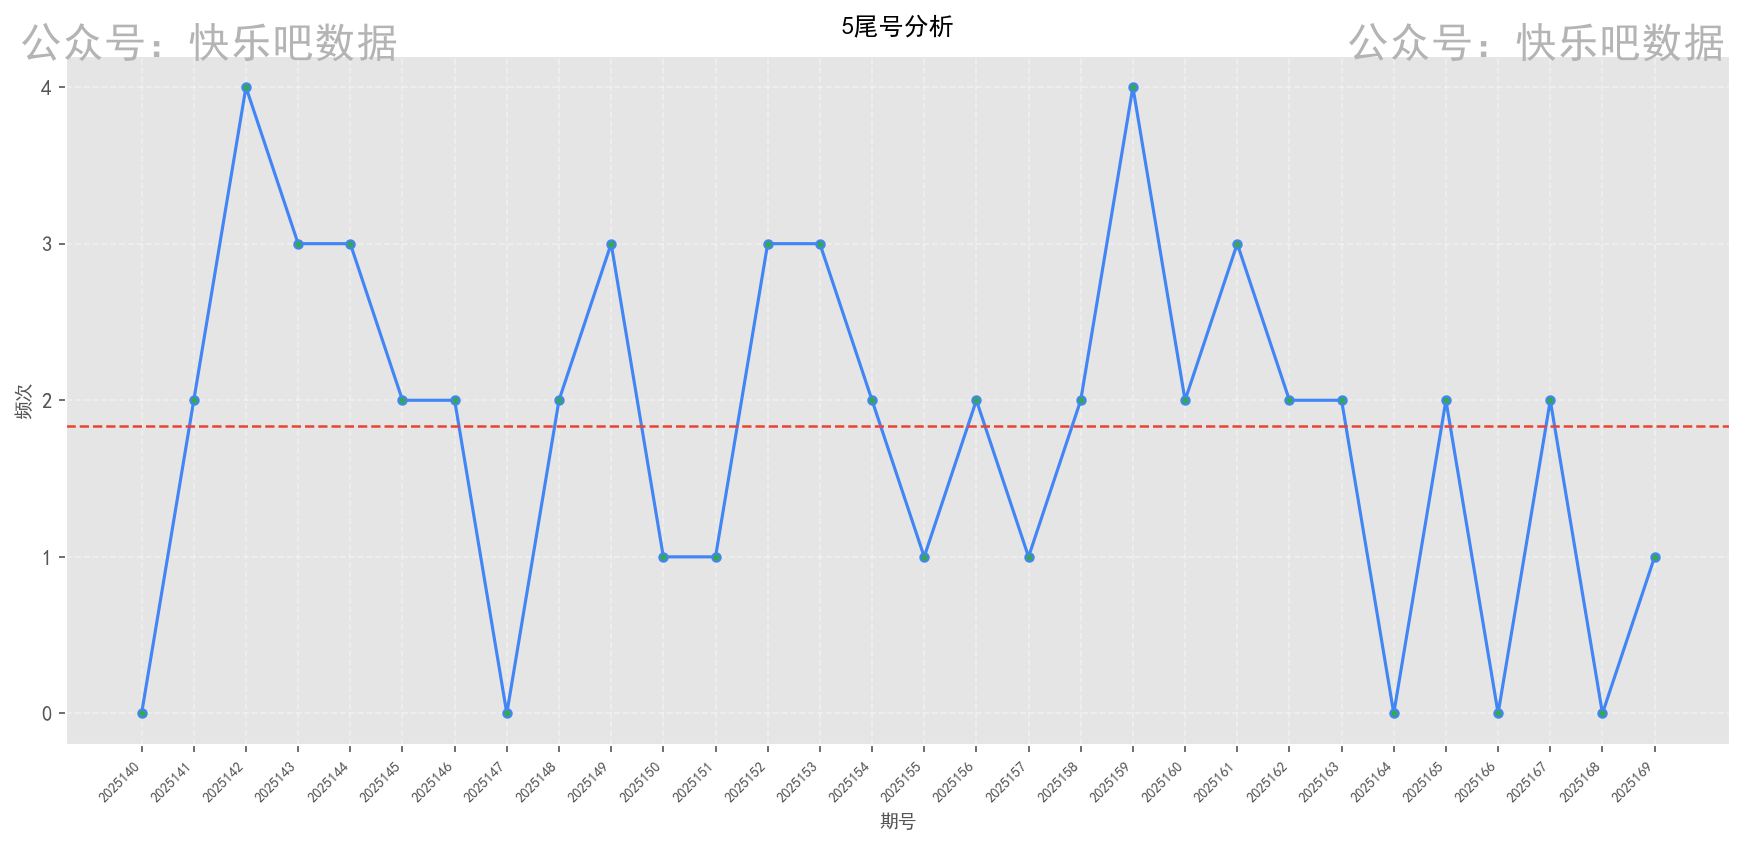
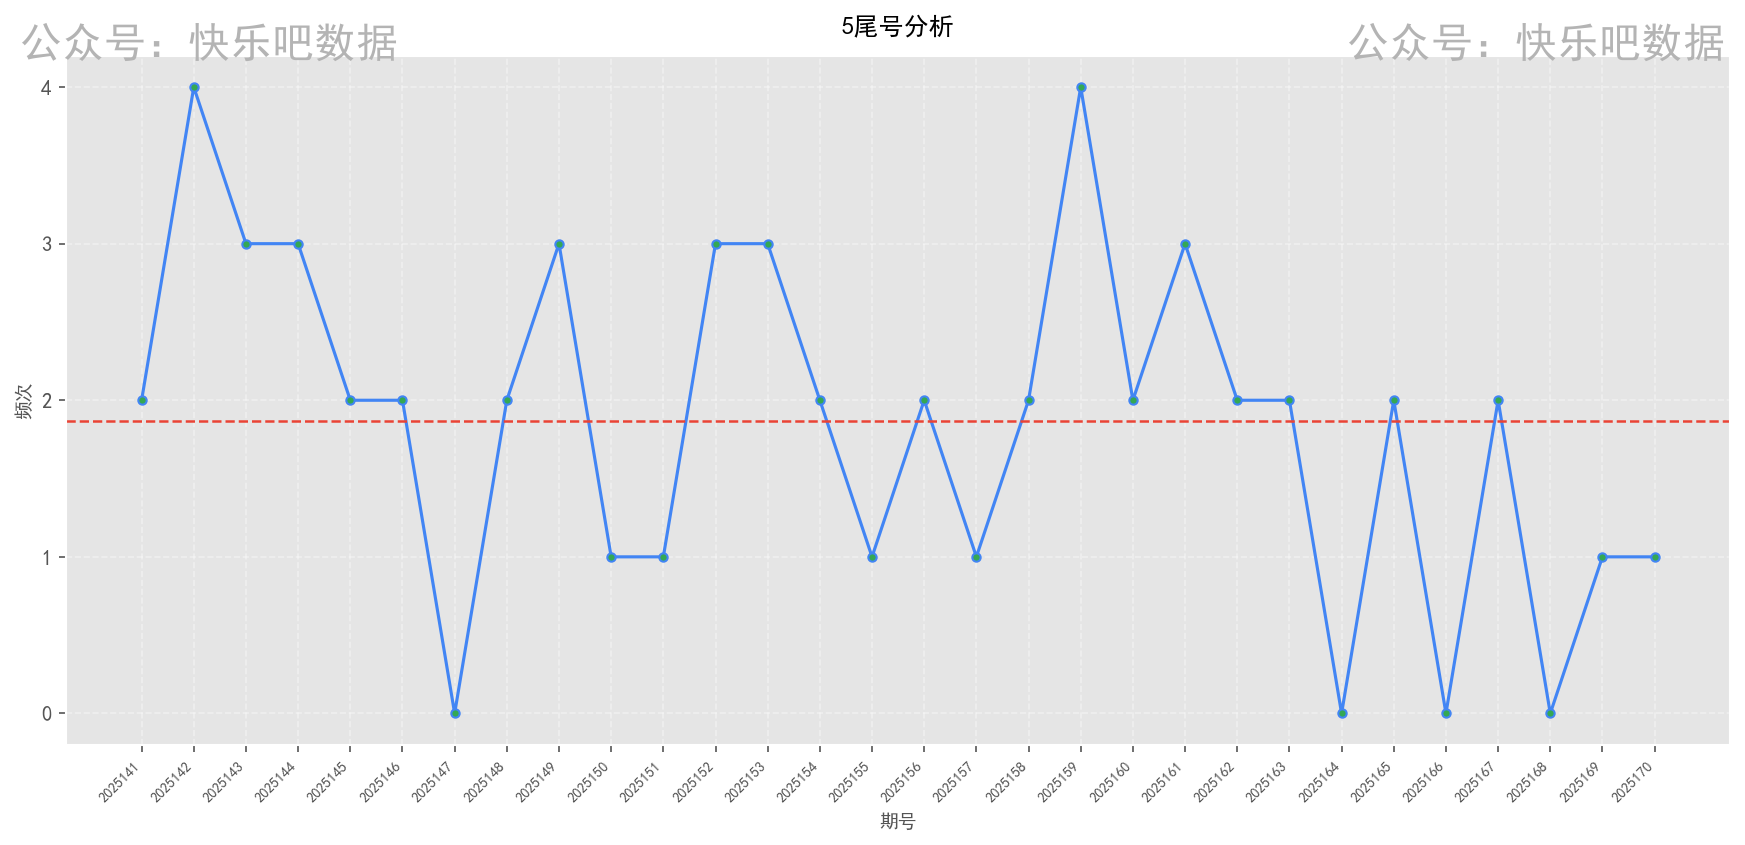
自动提交报告 20250629_2327

diff --git a/快乐8尾号分析项目/数据报告/20250629/report.html b/快乐8尾号分析项目/数据报告/20250629/report.html
@@ -440,7 +440,7 @@
                     <div class="label">尾号区间</div>
                 </div>
                 <div class="overview-card">
-                    <div class="value">2025169</div>
+                    <div class="value">2025170</div>
                     <div class="label">最新期号</div>
                 </div>
                 <div class="overview-card">
@@ -464,11 +464,11 @@
             <div class="stats-summary">
                 <div class="stat-item">
                     <span class="stat-label">历史平均</span>
-                    <span class="stat-value">2.03</span>
+                    <span class="stat-value">2.10</span>
                 </div>
                 <div class="stat-item">
                     <span class="stat-label">近期平均</span>
-                    <span class="stat-value">2.00</span>
+                    <span class="stat-value">2.20</span>
                 </div>
                 <div class="stat-item">
                     <span class="stat-label">最高频次</span>
@@ -490,7 +490,7 @@
                 </div>
                 <div class="stat-item">
                     <span class="stat-label">近期平均</span>
-                    <span class="stat-value">1.40</span>
+                    <span class="stat-value">1.60</span>
                 </div>
                 <div class="stat-item">
                     <span class="stat-label">最高频次</span>
@@ -508,11 +508,11 @@
             <div class="stats-summary">
                 <div class="stat-item">
                     <span class="stat-label">历史平均</span>
-                    <span class="stat-value">2.10</span>
+                    <span class="stat-value">2.17</span>
                 </div>
                 <div class="stat-item">
                     <span class="stat-label">近期平均</span>
-                    <span class="stat-value">1.80</span>
+                    <span class="stat-value">2.20</span>
                 </div>
                 <div class="stat-item">
                     <span class="stat-label">最高频次</span>
@@ -530,7 +530,7 @@
             <div class="stats-summary">
                 <div class="stat-item">
                     <span class="stat-label">历史平均</span>
-                    <span class="stat-value">1.93</span>
+                    <span class="stat-value">2.00</span>
                 </div>
                 <div class="stat-item">
                     <span class="stat-label">近期平均</span>
@@ -552,11 +552,11 @@
             <div class="stats-summary">
                 <div class="stat-item">
                     <span class="stat-label">历史平均</span>
-                    <span class="stat-value">1.93</span>
+                    <span class="stat-value">1.80</span>
                 </div>
                 <div class="stat-item">
                     <span class="stat-label">近期平均</span>
-                    <span class="stat-value">2.60</span>
+                    <span class="stat-value">2.40</span>
                 </div>
                 <div class="stat-item">
                     <span class="stat-label">最高频次</span>
@@ -574,11 +574,11 @@
             <div class="stats-summary">
                 <div class="stat-item">
                     <span class="stat-label">历史平均</span>
-                    <span class="stat-value">1.83</span>
+                    <span class="stat-value">1.87</span>
                 </div>
                 <div class="stat-item">
                     <span class="stat-label">近期平均</span>
-                    <span class="stat-value">1.00</span>
+                    <span class="stat-value">0.80</span>
                 </div>
                 <div class="stat-item">
                     <span class="stat-label">最高频次</span>
@@ -600,7 +600,7 @@
                 </div>
                 <div class="stat-item">
                     <span class="stat-label">近期平均</span>
-                    <span class="stat-value">2.20</span>
+                    <span class="stat-value">2.40</span>
                 </div>
                 <div class="stat-item">
                     <span class="stat-label">最高频次</span>
@@ -618,7 +618,7 @@
             <div class="stats-summary">
                 <div class="stat-item">
                     <span class="stat-label">历史平均</span>
-                    <span class="stat-value">1.93</span>
+                    <span class="stat-value">1.97</span>
                 </div>
                 <div class="stat-item">
                     <span class="stat-label">近期平均</span>
@@ -640,11 +640,11 @@
             <div class="stats-summary">
                 <div class="stat-item">
                     <span class="stat-label">历史平均</span>
-                    <span class="stat-value">1.90</span>
+                    <span class="stat-value">1.83</span>
                 </div>
                 <div class="stat-item">
                     <span class="stat-label">近期平均</span>
-                    <span class="stat-value">2.60</span>
+                    <span class="stat-value">2.40</span>
                 </div>
                 <div class="stat-item">
                     <span class="stat-label">最高频次</span>
@@ -662,11 +662,11 @@
             <div class="stats-summary">
                 <div class="stat-item">
                     <span class="stat-label">历史平均</span>
-                    <span class="stat-value">1.97</span>
+                    <span class="stat-value">1.90</span>
                 </div>
                 <div class="stat-item">
                     <span class="stat-label">近期平均</span>
-                    <span class="stat-value">1.60</span>
+                    <span class="stat-value">1.20</span>
                 </div>
                 <div class="stat-item">
                     <span class="stat-label">最高频次</span>
@@ -690,7 +690,7 @@
         <div class="disclaimer">
             <div class="disclaimer-title"><i class="fas fa-exclamation-circle"></i> 法律声明</div>
             <p>本分析报告基于中国福利彩票官网公开数据制作，仅供历史数据分析与参考，严禁用于赌博或任何违法违规用途。</p>
-            <p>根据中国法律，禁止向未成年人传播彩票相关信息。数据统计周期: 2025140期-2025169期 | 生成时间: 2025-06-29 14:43</p>
+            <p>根据中国法律，禁止向未成年人传播彩票相关信息。数据统计周期: 2025141期-2025170期 | 生成时间: 2025-06-29 23:27</p>
         </div>
 
         <!-- 操作按钮 -->

diff --git a/index.html b/index.html
@@ -51,7 +51,7 @@
                 立即查看今日报告
             </a>
         </p>
-        <p>生成时间: 2025-06-29 23:26</p>
+        <p>生成时间: 2025-06-29 23:27</p>
     </div>
 
     <script>
